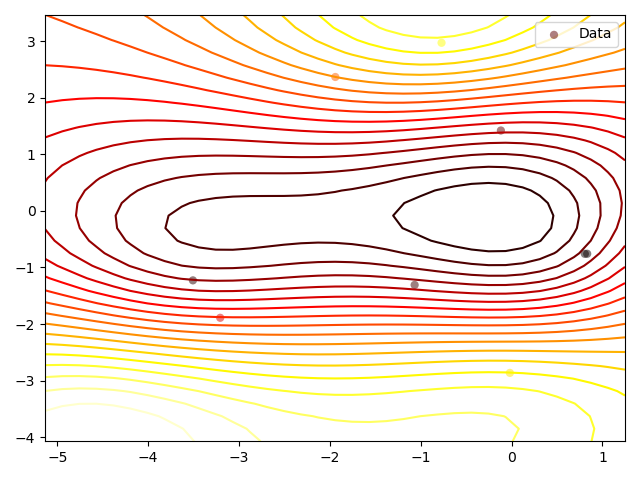
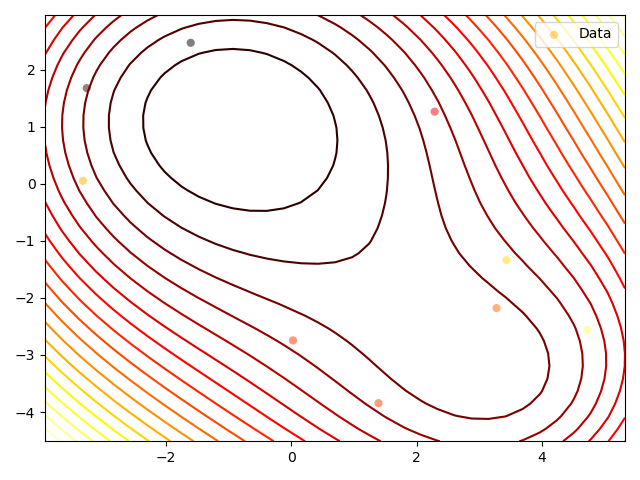
Made value function 3D

diff --git a/level_set/level_set_estimation.py b/level_set/level_set_estimation.py
@@ -31,53 +31,27 @@ diff_model = True  # Doesn't matter
 freeze_model = False # Doesn't matter - to avoid a NotImplementedError
 system = dynamics.Dubins3D(goalR, velocity, omega_max, angle_alpha_factor, set_mode, diff_model, freeze_model)
 
-# print("\n")
-# state = torch.Tensor([-1.0, 0.5, 0.0])
-# dvds = torch.Tensor([1.0, 1.0, 1.0])
-# ctrl = system.optimal_control(state, dvds)
-# print(ctrl)
-# dsdt = system.dsdt(state, ctrl, disturbance=None)
-# print(dsdt)
-
-# state_traj = [state]
-# curr_state = state
-# time_steps = 1000
-# for t in range(time_steps):
-#     # dvds = torch.Tensor([1.0, 1.0, 1.0])
-#     ctrl = system.optimal_control(curr_state, dvds)
-#     dsdt = system.dsdt(curr_state, ctrl, disturbance=None)
-#     next_state = system.equivalent_wrapped_state(curr_state + dt*dsdt)
-#     state_traj.append(next_state)
-#     curr_state = next_state
-# state_traj = torch.Tensor(np.array(state_traj))
-
-# fig, ax = plt.subplots()
-# circle = plt.Circle((0, 0), goalR, color='r', fill=False)
-# ax.scatter(state_traj[:, 0], state_traj[:, 1])
-# ax.add_patch(circle)
-# ax.set_aspect('equal', adjustable='box')
-# plt.show()
-
-# print(system.cost_fn(state_traj))
-
 
 def get_dvds(value_fn, state, delta=0.01):
-    state = np.array([state[:2]])
+    # state = np.array([state[:2]])
+    state = np.array([state])
     grad = []
-    for i in range(len(state[0])):
-        direction = np.zeros(len(state[0]))
+    for i in range(state.shape[1]):
+        direction = np.zeros(state.shape[1])
         direction[i] = 1.0
         delta_state = state + direction*delta
         partial_deriv = (value_fn(delta_state) - value_fn(state))/delta 
         grad.append(partial_deriv)
-    # For theta
-    grad.append(0.0)
-    return torch.Tensor(grad)
+    # # For theta
+    # grad.append(0.0)
+    grad = torch.squeeze(torch.Tensor(grad), -1)
+    grad = torch.transpose(grad, 0, 1)
+    return grad
 
 def batched_rollouts_generator(value_fn, system=system, theta=0.0, time_steps=10000, dt=dt):
     def rollout(state, plot_traj=True):
-        state = list(state)
-        state.append(theta)
+        # state = list(state)
+        # state.append(theta)
         state = torch.Tensor(state) 
         state_traj = [state]
         curr_state = state
@@ -114,18 +88,21 @@ def batched_rollouts_generator(value_fn, system=system, theta=0.0, time_steps=10
     return batched_rollouts
 
 
-mean_function = GPy.core.Mapping(2,1)
-mean_function.f = lambda x: x[0][0]**2 + x[0][1]**2 - 1
+mean_function = GPy.core.Mapping(3,1)
+mean_function.f = lambda x: np.expand_dims(x[:, 0]**2 + x[:, 1]**2 - 1, -1)
 mean_function.update_gradients = lambda a,b: 0
 mean_function.gradients_X = lambda a,b: 0
 value_fn = mean_function.f
 
+
 f = batched_rollouts_generator(value_fn) 
-input_dim = 2
+input_dim = 3
 oned_x = np.arange(-5, 5, 1)
-xv, yv = np.meshgrid(oned_x, oned_x)
-candidates = np.hstack((xv.reshape(-1, 1), yv.reshape(-1, 1)))
-range_x = [[-5, 5], [-5, 5]]
+theta_grid = np.arange(-np.pi, np.pi, 1.0)
+xv, yv, thetav = np.meshgrid(oned_x, oned_x, theta_grid)
+candidates = np.hstack((xv.reshape(-1, 1), yv.reshape(-1, 1), thetav.reshape(-1, 1)))
+
+range_x = [[-5, 5], [-5, 5], [-np.pi, np.pi]]
 noise_var = 1e-15
 cost_thres = 0.0 
 conf_thres = 0.9
@@ -137,11 +114,20 @@ bols.initial_setup(bo_init_iters)
 print("\nCompleted BOLevelSet initial setup")
 # bols.optimize_loop(bo_iters)
 
-print(bols.extract_levelset(candidates))
+print("Level Set\n", bols.extract_levelset(candidates))
 
-mu, cov = bols.m.predict(candidates, full_cov=True, include_likelihood=True)
-value_fn = mu
+# def new_value_fn_generator(bols):
+#     def new_value_fn(state):
+#         state = np.array([state])
+#         mu, cov = bols.m.predict(state, full_cov=True, include_likelihood=True)
+#         return mu[0][0]
+#     return new_value_fn
 
+# f = batched_rollouts_generator(new_value_fn_generator(bols)) 
+# bo_init_iters = 10
+# bols = BOLevelSet(f, mean_function, input_dim, candidates, range_x, noise_var, cost_thres, conf_thres, length_scale, logdir)
+# bols.initial_setup(bo_init_iters)
+# print("\nCompleted BOLevelSet initial setup")
 
 
 print("\nYAY!")

diff --git a/level_set/bolevelset.py b/level_set/bolevelset.py
@@ -100,6 +100,9 @@ class BOLevelSet:
             self.m.plot(plot_limits=np.array([self.range_x[0]-0.25, self.range_x[1]+0.25]))
             plt.plot(self.candidates.flatten(), BOLevelSet.normalize(self.acq.flatten(), 10), c='orange')
         if self.input_dim == 2:
+            # fixed_dims = [(1, 5.0)]
+            # self.m.plot(fixed_inputs=fixed_dims)
+            # self.m.plot(fixed_inputs=fixed_dims, plot_limits=[(0, 10), (0, 10)], projection='2d')
             self.m.plot()
             plt.savefig(self.logdir + f'/gp_{iter}.png')
             plt.figure()
@@ -112,6 +115,10 @@ class BOLevelSet:
             plt.contourf(original_x, original_y, BOLevelSet.normalize(z))
             plt.colorbar()
             plt.savefig(self.logdir + f'/mile_{iter}.png')
+        if self.input_dim == 3:
+            fixed_dims = [(2, 0.0)]
+            self.m.plot(fixed_inputs=fixed_dims, projection='2d')
+            plt.savefig(self.logdir + f'/gp_{iter}.png')
 
     def save(self, fname):
         temp_f = self.f
